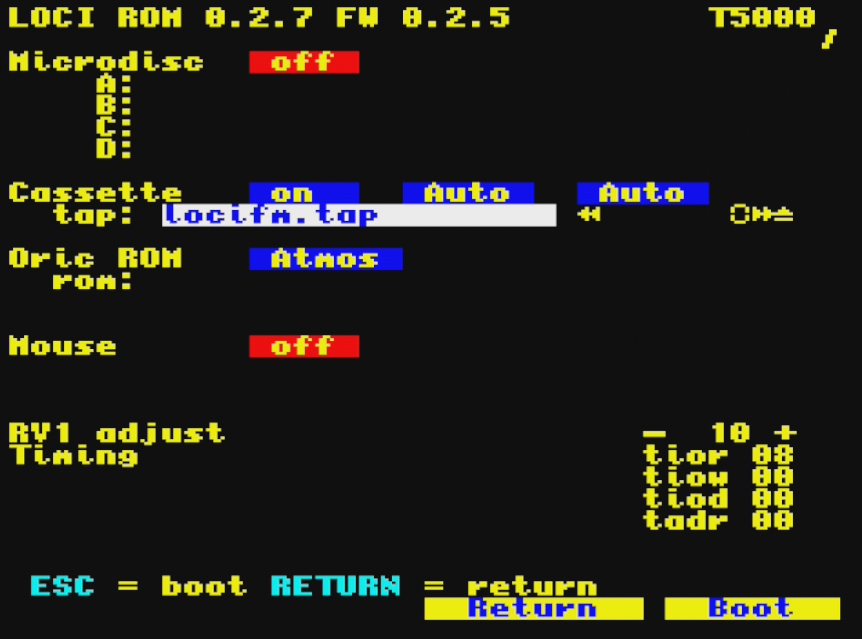
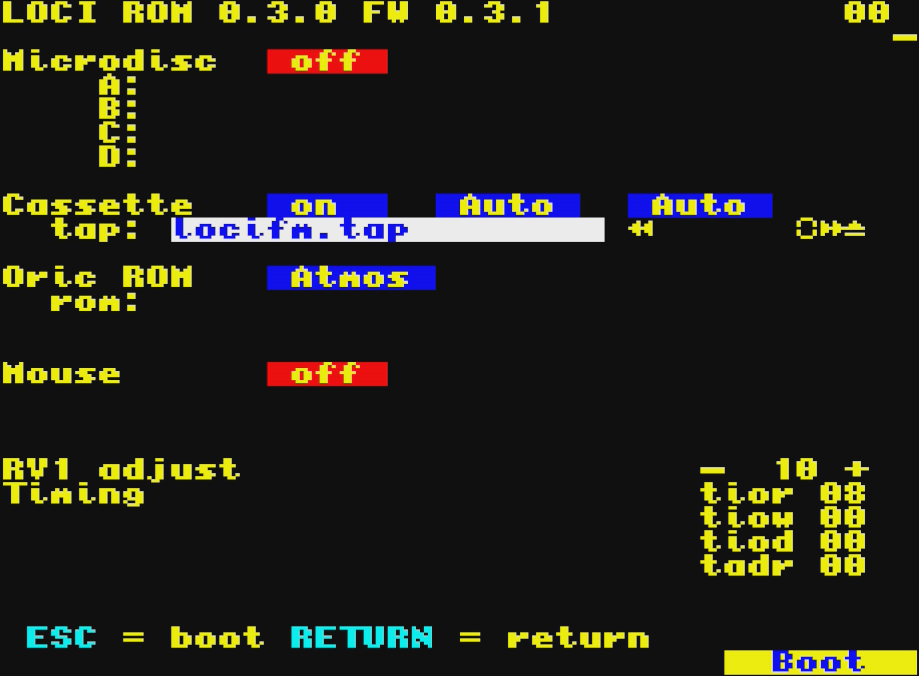
README_fr: full FR screenshot refresh, new Mounts/Favoris sections
- Recapture all shared screenshots with locifm_fr.tap (French UI text)
- Port Mounts section (5 screenshots) and Favoris subsection from README.md
- Add Tools section (8 screenshots), previously absent from README_fr.md
- Update Properties description for the progress-counter/ESC-cancel behaviour
- Add Info QR-code screenshot to EN and FR
- Remove stale "screenshots predate Tools menu" disclaimer from both READMEs
- Regenerate README.pdf / README_fr.pdf

diff --git a/README_fr.md b/README_fr.md
@@ -2,7 +2,7 @@
 
 Gestionnaire de fichiers pour le périphérique de stockage de masse LOCI sur Oric Atmos — reconstruction v2 avec Oscar64.
 
-![Interface principale de LOCI FM](screenshots/LociFM-main-interface.png)
+![Interface principale de LOCI FM](screenshots/LociFM-main-interface-fr.png)
 
 ## Sommaire
 
@@ -40,11 +40,7 @@ couvre l'ensemble des fonctionnalités de la v1, ainsi que les nouvelles
 fonctionnalités v2 listées ci-dessus (copie/déplacement/suppression
 récursifs, annulation de copie en cours, filtres par nom et par type,
 visionneuse de texte, fenêtre de propriétés), et est
-couverte par une suite de tests automatisés (`make test`). Les captures
-d'écran plus loin dans ce manuel proviennent d'une version antérieure de la
-v2 et datent d'avant l'ajout du menu « Tools » (Propriétés/Filtre de
-texte/Voir le texte) ; elles seront mises à jour pour montrer la barre de menu
-actuelle à 6 éléments.
+couverte par une suite de tests automatisés (`make test`).
 
 Pour plus d'informations sur le périphérique LOCI lui-même, voir le
 [manuel utilisateur du LOCI](https://github.com/sodiumlb/loci-hardware/wiki/LOCI-User-Manual)
@@ -160,7 +156,7 @@ Pour copier les images bande directement sur une clé USB :
 2. Allez dans l'interface utilisateur du LOCI en appuyant sur le bouton rouge
    du LOCI. Vous devriez obtenir une interface LOCI similaire à :
 
-   ![Interface LOCI - démarrage du programme](screenshots/LociFM-start-program.png)
+   ![Interface LOCI - démarrage du programme](screenshots/LociFM-start-program-fr.png)
 3. Allez dans le champ de sélection des images de bande en appuyant sur **T**
    (ou naviguez-y avec les touches curseur).
 4. Appuyez sur **ESPACE** pour aller au navigateur de fichiers.
@@ -243,7 +239,7 @@ Le bouton de tir déclenche la même action que la touche RETURN.
 
 Après le démarrage de l'application, l'interface principale ressemble à :
 
-![Interface principale de LOCI FM](screenshots/LociFM-main-interface.png)
+![Interface principale de LOCI FM](screenshots/LociFM-main-interface-fr.png)
 
 La première ligne de l'écran est un en-tête affichant le nom de l'application,
 suivi de la chaîne d'identification et de version de firmware du périphérique
@@ -286,7 +282,7 @@ utiliser, classées par option du menu principal.
 
 ### App : Options de l'application
 
-![Menu Application](screenshots/LociFM-menu-app.png)
+![Menu Application](screenshots/LociFM-menu-app-fr.png)
 
 *Confirm.*
 
@@ -299,7 +295,7 @@ Cette fonction n'est accessible que via le menu.
 
 *Retour*
 
-![App : Retour](screenshots/LociFM-menu-app-return.png)
+![App : Retour](screenshots/LociFM-menu-app-return-fr.png)
 
 Sélectionne l'action à effectuer en appuyant sur RETURN :
 - Select : Bascule la sélection du fichier en appuyant sur **RETURN**, qui se
@@ -316,7 +312,7 @@ Cette fonction n'est accessible que via le menu.
 
 *Filtre de type*
 
-![App : Filtre](screenshots/LociFM-menu-app-filter.png)
+![App : Filtre](screenshots/LociFM-menu-app-filter-fr.png)
 
 Sélectionne le filtre à appliquer pour l'affichage des répertoires. Le menu
 affiche directement la valeur active (`[F] Type: Aucun`/`.DSK`/`.TAP`/`.ROM`/`.LCE`) :
@@ -341,7 +337,7 @@ Cette fonction est aussi accessible avec la touche **O**.
 
 *Sortie*
 
-![App : Sortie](screenshots/LociFM-menu-app-exit.png)
+![App : Sortie](screenshots/LociFM-menu-app-exit-fr.png)
 
 L'application se termine et démarre en fonction des montages actifs (lecteur
 A > .TAP > ROM).
@@ -352,7 +348,7 @@ Cette fonction est aussi accessible avec la touche **ESC**.
 
 ### Fichier : Opérations sur les fichiers
 
-![Menu Fichier](screenshots/LociFM-menu-file.png)
+![Menu Fichier](screenshots/LociFM-menu-file-fr.png)
 
 *Sélection*
 
@@ -362,7 +358,7 @@ d'écran ci-dessous.
 
 Cette fonction est aussi accessible avec la touche **S**.
 
-![Fichier : Sélection](screenshots/LociFM-menu-file-select.png)
+![Fichier : Sélection](screenshots/LociFM-menu-file-select-fr.png)
 
 *Tout sélectionner*
 
@@ -402,7 +398,7 @@ Cette fonction permet aussi de supprimer un répertoire :
 
 Cette fonction est aussi accessible avec la touche **DEL**.
 
-![Fichier : Effacer](screenshots/LociFM-menu-file-delete.png)
+![Fichier : Effacer](screenshots/LociFM-menu-file-delete-fr.png)
 
 *Renommer*
 
@@ -414,7 +410,7 @@ annuler.
 
 Cette fonction est aussi accessible avec la touche **R**.
 
-![Fichier : Renommer](screenshots/LociFM-menu-file-rename.png)
+![Fichier : Renommer](screenshots/LociFM-menu-file-rename-fr.png)
 
 *Copier / Déplacer*
 
@@ -428,19 +424,19 @@ La copie ou le déplacement s'effectue depuis le répertoire du volet actif vers
 le répertoire du volet non actif. Vous ne pouvez pas copier ou déplacer vers
 le même répertoire ; dans ce cas un message d'erreur s'affiche :
 
-![Fichier : Copier - erreur même répertoire](screenshots/LociFM-menu-file-copy-same-dir.png)
+![Fichier : Copier - erreur même répertoire](screenshots/LociFM-menu-file-copy-same-dir-fr.png)
 
 Si un ou plusieurs fichiers du même nom existent déjà, une fenêtre demande
 confirmation pour écraser les fichiers du répertoire cible (selon le réglage
 Confirm. du menu App, une seule fois ou pour chaque fichier).
 
-![Fichier : Copier - confirmation d'écrasement](screenshots/LociFM-menu-file-copy-confirm.png)
+![Fichier : Copier - confirmation d'écrasement](screenshots/LociFM-menu-file-copy-confirm-fr.png)
 
 Sinon, une fenêtre affiche la progression de la copie ou du déplacement.
 Appuyer sur **ESC** annule immédiatement, même en cours de copie d'un fichier ;
 tout fichier de destination partiellement écrit est supprimé automatiquement.
 
-![Fichier : Copier](screenshots/LociFM-menu-file-copy.png)
+![Fichier : Copier](screenshots/LociFM-menu-file-copy-fr.png)
 
 Cette fonction est aussi accessible avec la touche **C** pour copier ou **V**
 pour déplacer.
@@ -458,11 +454,11 @@ type TAP.
 La sélection commence par monter l'image de bande. Cette fenêtre s'affiche,
 appuyez sur une touche pour continuer :
 
-![Fichier : Parcourir bande - message de montage](screenshots/LociFM-menu-file-browse-tape-mount.png)
+![Fichier : Parcourir bande - message de montage](screenshots/LociFM-menu-file-browse-tape-mount-fr.png)
 
 Le volet actif du navigateur ressemble alors à :
 
-![Fichier : Parcourir bande](screenshots/LociFM-menu-file-browse-tape-browse.png)
+![Fichier : Parcourir bande](screenshots/LociFM-menu-file-browse-tape-browse-fr.png)
 
 La première ligne affiche désormais « Ruban : » pour indiquer que vous êtes à
 l'intérieur d'une image de bande, suivi du nom de l'image. La deuxième ligne
@@ -481,7 +477,7 @@ La seule chose qui fonctionne en parcourant une bande est de se positionner
 sur le fichier souhaité à l'intérieur de la bande en appuyant sur **RETURN**.
 Cela affiche cette fenêtre :
 
-![Fichier : Parcourir bande - se positionner sur un fichier](screenshots/LociFM-menu-file-browse-tape-mount-file-on-tape.png)
+![Fichier : Parcourir bande - se positionner sur un fichier](screenshots/LociFM-menu-file-browse-tape-mount-file-on-tape-fr.png)
 
 Revenez au répertoire normal en appuyant sur **Curseur Gauche** (ou joystick
 gauche).
@@ -490,7 +486,7 @@ Cette fonction est aussi accessible avec la touche **W**.
 
 ### Répertoire : Navigation et opérations sur les répertoires
 
-![Menu Répertoire](screenshots/LociFM-menu-dir.png)
+![Menu Répertoire](screenshots/LociFM-menu-dir-fr.png)
 
 *Aller à la racine*
 
@@ -532,25 +528,95 @@ touches curseur et DEL peuvent être utilisées pour l'édition), appuyez sur
 
 Cette fonction est aussi accessible avec la touche **E**.
 
-![Répertoire : Nouveau répertoire](screenshots/LociFM-menu-dir-create-dir.png)
+![Répertoire : Nouveau répertoire](screenshots/LociFM-menu-dir-create-dir-fr.png)
+
+### Montages : Montage de lecteurs et sélection de la cible
+
+![Menu Montages](screenshots/LociFM-menu-mounts-fr.png)
+
+*Autre panneau*
+
+Bascule le volet actif vers l'autre volet. Cette fonction est aussi
+accessible avec la touche **/**.
+
+*Lecteur suivant / Lecteur précédent*
+
+Passe au lecteur LOCI suivant ou précédent disponible pour le volet actif.
+Ces fonctions sont aussi accessibles avec la touche **.** (suivant) ou **,**
+(précédent).
+
+*Monter*
+
+Monte le fichier actif, selon son type :
+- .DSK : monté sur le lecteur de disque cible (voir *Cible* ci-dessous)
+- .TAP : monté sur le lecteur de bande
+- .ROM : monté dans la boîte ROM
+
+Une fenêtre confirme le résultat :
+
+![Montages : Monter](screenshots/LociFM-menu-mounts-mount-fr.png)
+
+Si vous parcourez l'intérieur d'une image de bande, cette fonction se positionne
+plutôt sur le fichier sélectionné dans la bande (voir *Parcourir bande* dans
+[Fichier : Opérations sur les fichiers](#fichier--opérations-sur-les-fichiers)).
+
+Cette fonction est aussi accessible avec la touche **M**.
+
+*Démonter*
+
+Ouvre une fenêtre pour choisir quel lecteur, bande ou ROM doit être
+démonté/éjecté :
+
+![Montages : Démonter](screenshots/LociFM-menu-mounts-unmount-fr.png)
+
+Cette fonction est aussi accessible avec la touche **U**.
+
+*Cible*
+
+Ouvre une fenêtre pour choisir sur quel lecteur de disque (A-D) les images
+.DSK sont montées par *Monter*. Le menu affiche directement la cible active
+(`[G] Cible : A`/`B`/`C`/`D`).
+
+![Montages : Cible](screenshots/LociFM-menu-mounts-target-fr.png)
+
+Cette fonction est aussi accessible avec la touche **G**.
+
+*Voir montages*
+
+Affiche une fenêtre listant les noms de fichiers actuellement montés sur les
+lecteurs A-D, le lecteur de bande et la boîte ROM. Appuyer sur une touche pour
+fermer.
+
+![Montages : Voir montages](screenshots/LociFM-menu-mounts-show-fr.png)
 
 ### Outils : propriétés, filtre par nom et visionneuse de texte
+
+![Menu Outils](screenshots/LociFM-menu-tools-fr.png)
 
 *Propriétés*
 
 Affiche une fenêtre avec les détails du fichier ou répertoire présent :
 - Nom, type et chemin actif. Le type est affiché sous forme de description :
   "Repertoire" pour les répertoires, ".DSK - Image disque", ".TAP - Image
-  bande", ".ROM - Image ROM" ou ".LCE - Executable LOCI" pour ces types de
-  fichiers, et l'extension propre du fichier (par ex. ".TXT") pour tout autre
-  fichier
+  bande", ".ROM - Image ROM", ".LCE - Executable LOCI", ".CFG - Fichier
+  config" ou ".SYS - Fichier systeme" pour ces types de fichiers (recherche
+  insensible à la casse), et l'extension propre du fichier (par ex. ".TXT")
+  pour tout autre fichier
 - Attributs : R (lecture seule) et S (système), affichés par un tiret (-) si absents
 - Taille en octets. Pour un répertoire, la taille est calculée récursivement
-  sur tous les fichiers de son arborescence ; pendant le calcul, "Calcul en
-  cours..." s'affiche, et appuyer sur **ESC** annule le calcul, après quoi
-  "Annulé." s'affiche à la place d'une taille. Si l'arborescence dépasse 8
-  niveaux de profondeur, le total est affiché avec un "+" final pour indiquer
-  qu'il peut être incomplet.
+  sur tous les fichiers de son arborescence ; pendant le calcul, la fenêtre
+  affiche "Calcul en cours... N" (un compteur du nombre de répertoires déjà
+  parcourus) avec le nom du répertoire en cours d'analyse, ainsi qu'une
+  indication "ESC pour annuler." -- appuyer sur **ESC** annule le calcul,
+  après quoi "Annulé." s'affiche à la place d'une taille. Si l'arborescence
+  dépasse 8 niveaux de profondeur, le total est affiché avec un "+" final
+  pour indiquer qu'il peut être incomplet.
+
+![Outils : Propriétés (fichier)](screenshots/LociFM-menu-tools-properties-fr.png)
+
+![Outils : Propriétés (répertoire, calcul en cours)](screenshots/LociFM-menu-tools-properties-dir-calc-fr.png)
+
+![Outils : Propriétés (répertoire)](screenshots/LociFM-menu-tools-properties-dir-fr.png)
 
 Appuyer sur une touche pour fermer la fenêtre.
 
@@ -562,6 +628,8 @@ Ouvre une fenêtre pour saisir un motif avec caractères génériques (`*` et `?
 insensible à la casse) qui filtre la liste des répertoires des deux volets par
 nom de fichier. Les répertoires sont toujours affichés quel que soit le motif,
 afin que la navigation ne soit jamais bloquée.
+
+![Outils : Filtre de texte](screenshots/LociFM-menu-tools-filter-fr.png)
 
 Saisir un motif vide pour effacer le filtre. Appuyer sur **RETURN** pour
 appliquer, **ESC** pour annuler sans modification. Ce filtre n'est pas
@@ -580,6 +648,8 @@ Ouvre le fichier présent dans une visionneuse de texte plein écran avec retour
 passer à la page suivante, ou **ESC** pour revenir au navigateur de fichiers.
 La pagination se fait uniquement vers l'avant.
 
+![Outils : Voir le texte](screenshots/LociFM-menu-tools-view-fr.png)
+
 Tout octet qui n'est pas un caractère ASCII imprimable (0x20-0x7E) -- par
 exemple lors de l'affichage d'un fichier binaire/non-texte -- est affiché
 comme un caractère de remplacement `.`, afin que le contenu binaire
@@ -591,11 +661,30 @@ de chaque octet ainsi qu'une colonne ASCII ; appuyer de nouveau sur **X**
 pour revenir à l'affichage texte avec retour à la ligne automatique. Dans
 les deux cas, le fichier est relu depuis le début dans la nouvelle vue.
 
+![Outils : Voir le texte (affichage hexadécimal)](screenshots/LociFM-menu-tools-view-hex-fr.png)
+
 Cette fonction est aussi accessible avec la touche **J**.
+
+*Favoris*
+
+Ouvre une fenêtre listant 8 emplacements de favoris, partagés par les deux
+volets et enregistrés dans `0:/idi8b/locifm/locifm.cfg`. Les emplacements
+vides sont affichés comme "(vide)".
+
+![Outils : Favoris](screenshots/LociFM-menu-tools-favourites-fr.png)
+
+- Appuyer sur **1**-**8** pour faire aller le volet actif au répertoire
+  enregistré dans cet emplacement (sans effet si l'emplacement est vide).
+- Appuyer sur **A** puis **1**-**8** pour enregistrer le répertoire actuel du
+  volet actif dans cet emplacement, en remplaçant toute entrée précédente.
+- Appuyer sur **D** puis **1**-**8** pour effacer cet emplacement.
+- Appuyer sur **ESC** pour fermer la fenêtre.
+
+Cette fonction est aussi accessible avec la touche **Y**.
 
 ### Info : Informations sur la version et aide
 
-![Menu Info](screenshots/LociFM-menu-info.png)
+![Menu Info](screenshots/LociFM-menu-info-fr.png)
 
 *Version/crédits*
 
@@ -605,13 +694,15 @@ Affiche deux écrans pleins successifs. Le premier montre le logo "I Dream in
 code QR menant vers la page GitHub du projet. Appuyer sur une touche pour
 passer à l'écran suivant, puis à nouveau pour revenir à l'application.
 
-![Info : Version](screenshots/LociFM-menu-info-version.png)
+![Info : Version](screenshots/LociFM-menu-info-version-fr.png)
+
+![Info : Code QR](screenshots/LociFM-menu-info-version-qr-fr.png)
 
 *Aide*
 
 Affiche un écran d'aide pour les commandes clavier.
 
-![Info : Aide](screenshots/LociFM-menu-info-help.png)
+![Info : Aide](screenshots/LociFM-menu-info-help-fr.png)
 
 ---
 

diff --git a/README.md b/README.md
@@ -38,10 +38,7 @@ Available in English and French.
 full v1 feature set plus the new v2 features listed above (recursive
 copy/move/delete, mid-copy cancellation, name and type filters, text viewer,
 properties popup), and is covered by an automated test
-suite (`make test`). The screenshots further down in this manual were
-captured from an earlier v2 build and predate the "Tools" menu
-(Properties/Text filter/View text); they will be refreshed to show the
-current 6-item menu bar.
+suite (`make test`).
 
 For more information about the LOCI device itself, see the
 [LOCI User Manual](https://github.com/sodiumlb/loci-hardware/wiki/LOCI-User-Manual).